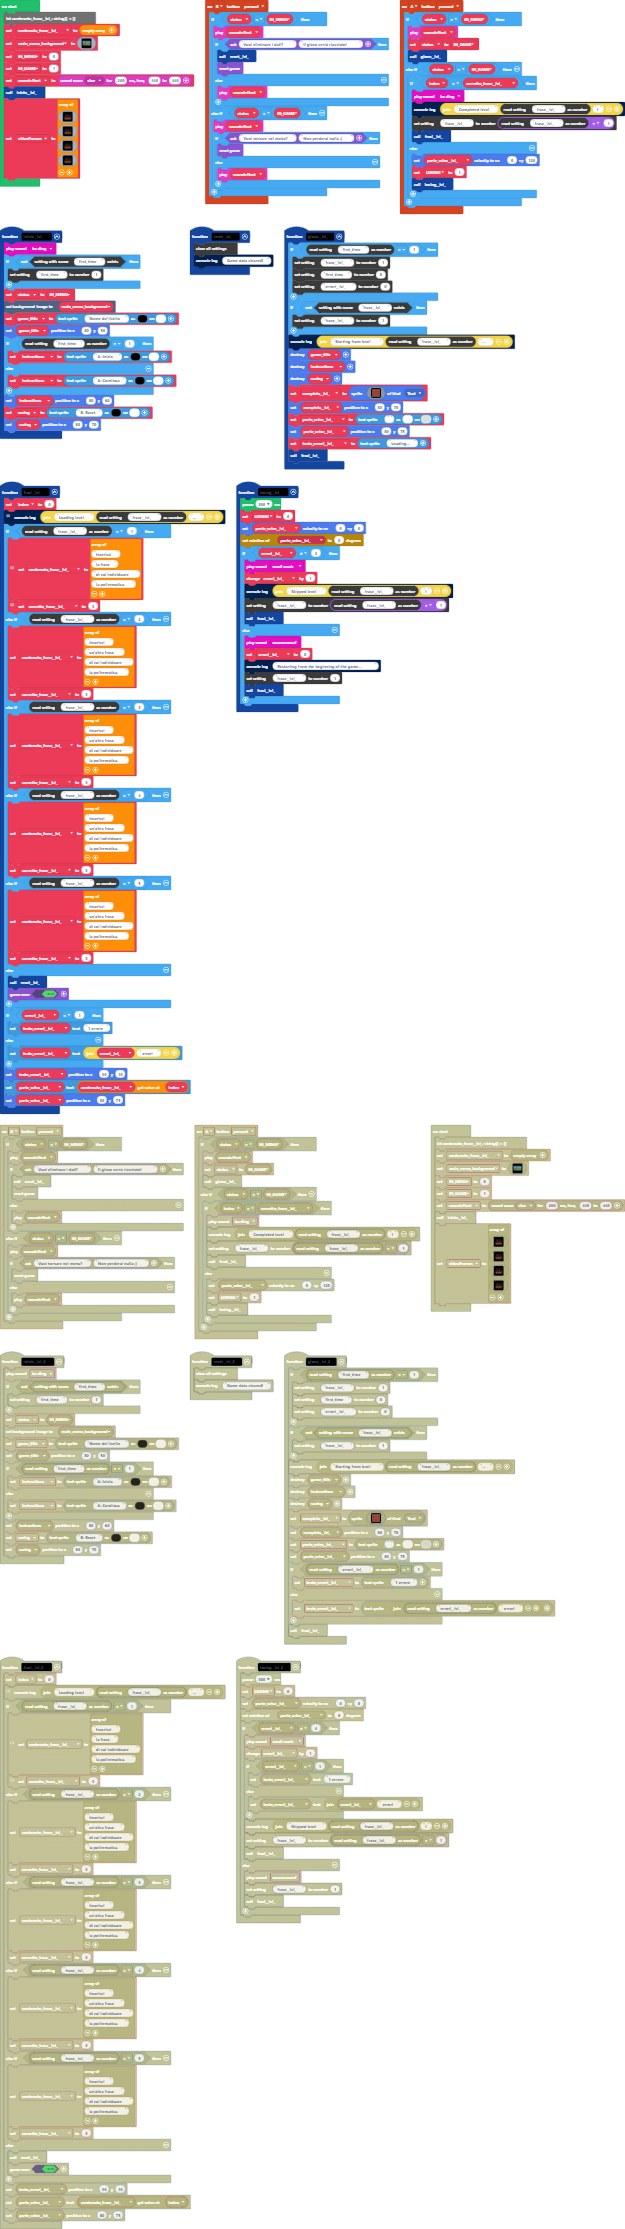
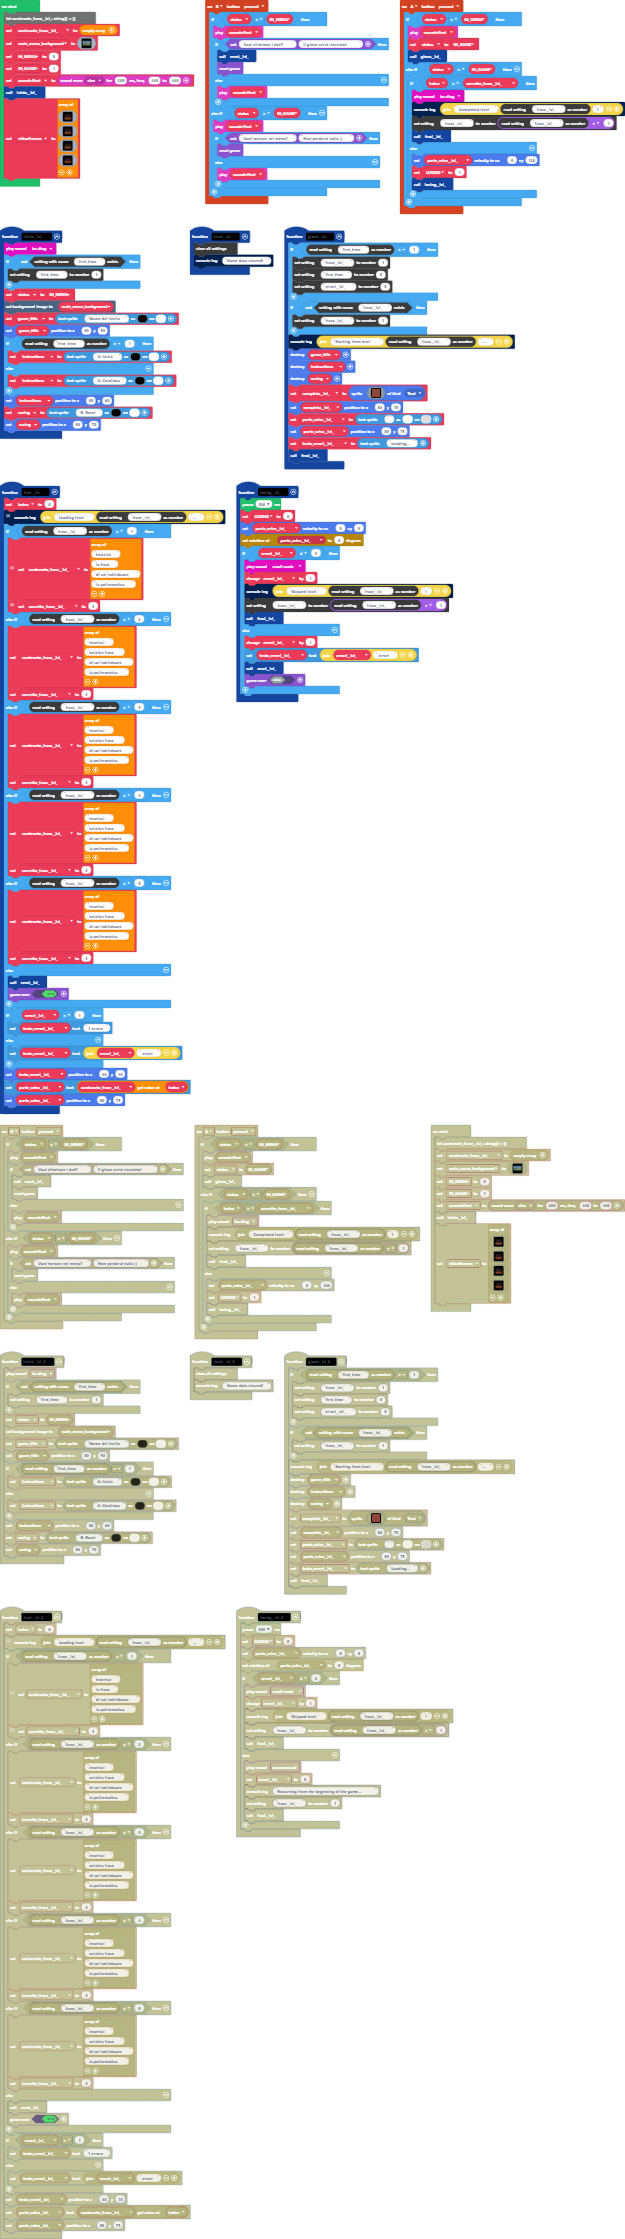
Adding the GAME OVER

Changed region(s): [[0.0, 0.031, 1.0, 0.9906], [0.6992, 0.4953, 1.0, 0.5882], [0.0304, 0.031, 0.0608, 0.0619]]

diff --git a/main.ts b/main.ts
@@ -10,11 +10,10 @@ function losing__lvl_ () {
         blockSettings.writeNumber("frase__lvl_", blockSettings.readNumber("frase__lvl_") + 1)
         frasi__lvl_()
     } else {
-        music.wawawawaa.play()
-        errori__lvl_ = 0
-        console.log("Restarting from the beginning of the game...")
-        blockSettings.writeNumber("frase__lvl_", 1)
-        frasi__lvl_()
+        errori__lvl_ += 1
+        testo_errori__lvl_.setText("" + errori__lvl_ + " errori")
+        reset__lvl_()
+        game.over(false)
     }
 }
 controller.B.onEvent(ControllerButtonEvent.Pressed, function () {
@@ -179,12 +178,12 @@ function frasi__lvl_ () {
 let background_index = 0
 let corretto_frase__lvl_ = 0
 let index = 0
-let testo_errori__lvl_: TextSprite = null
 let completa__lvl_: Sprite = null
 let saving: TextSprite = null
 let instructions: TextSprite = null
 let game_title: TextSprite = null
 let status = 0
+let testo_errori__lvl_: TextSprite = null
 let errori__lvl_ = 0
 let parte_selez__lvl_: TextSprite = null
 let LOSING = 0
